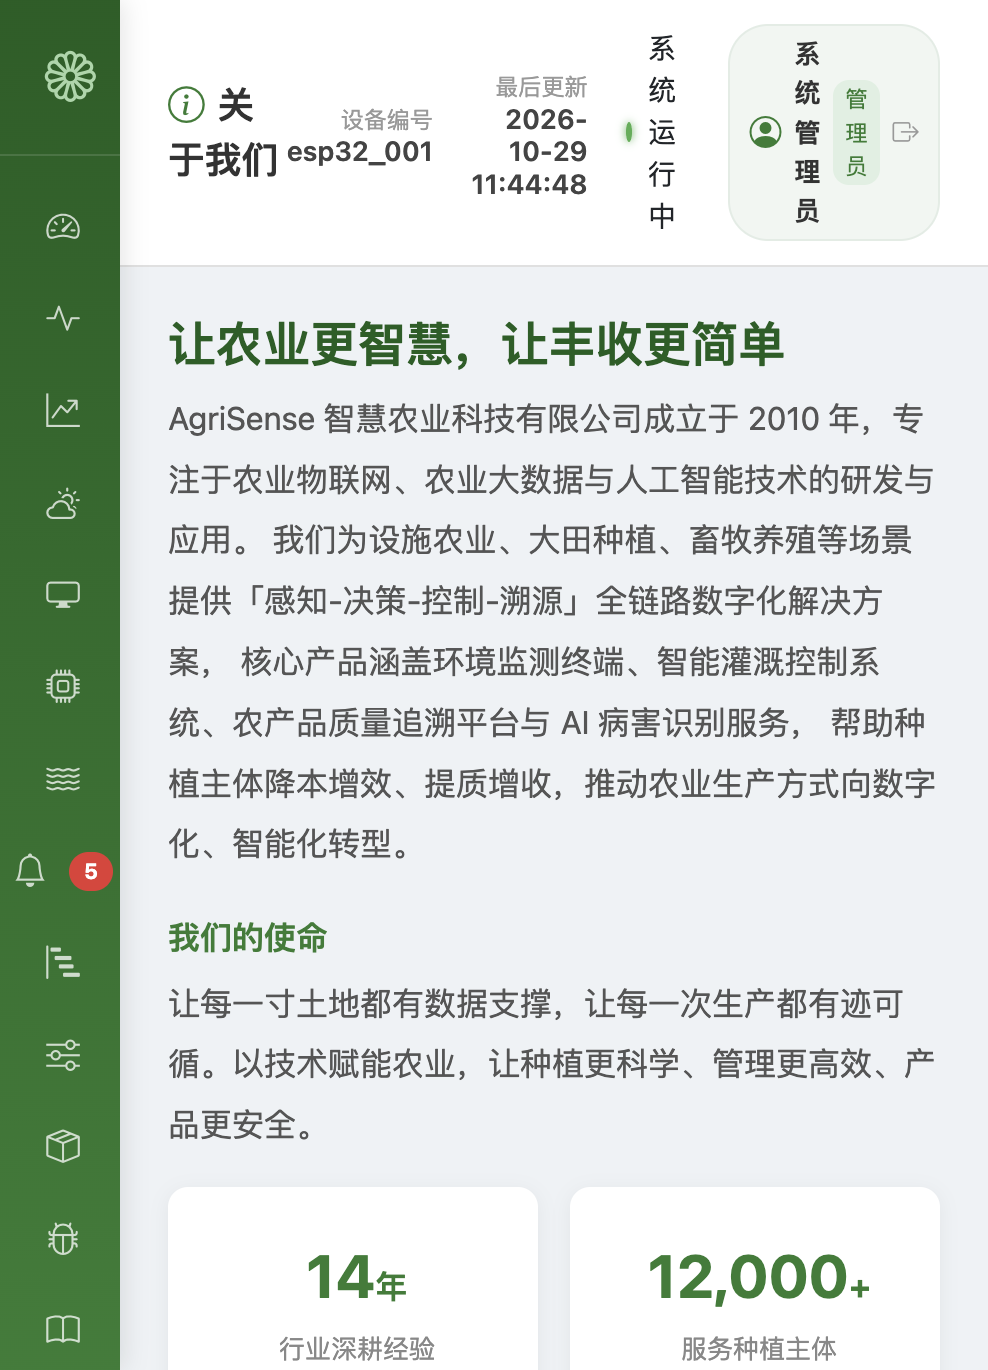
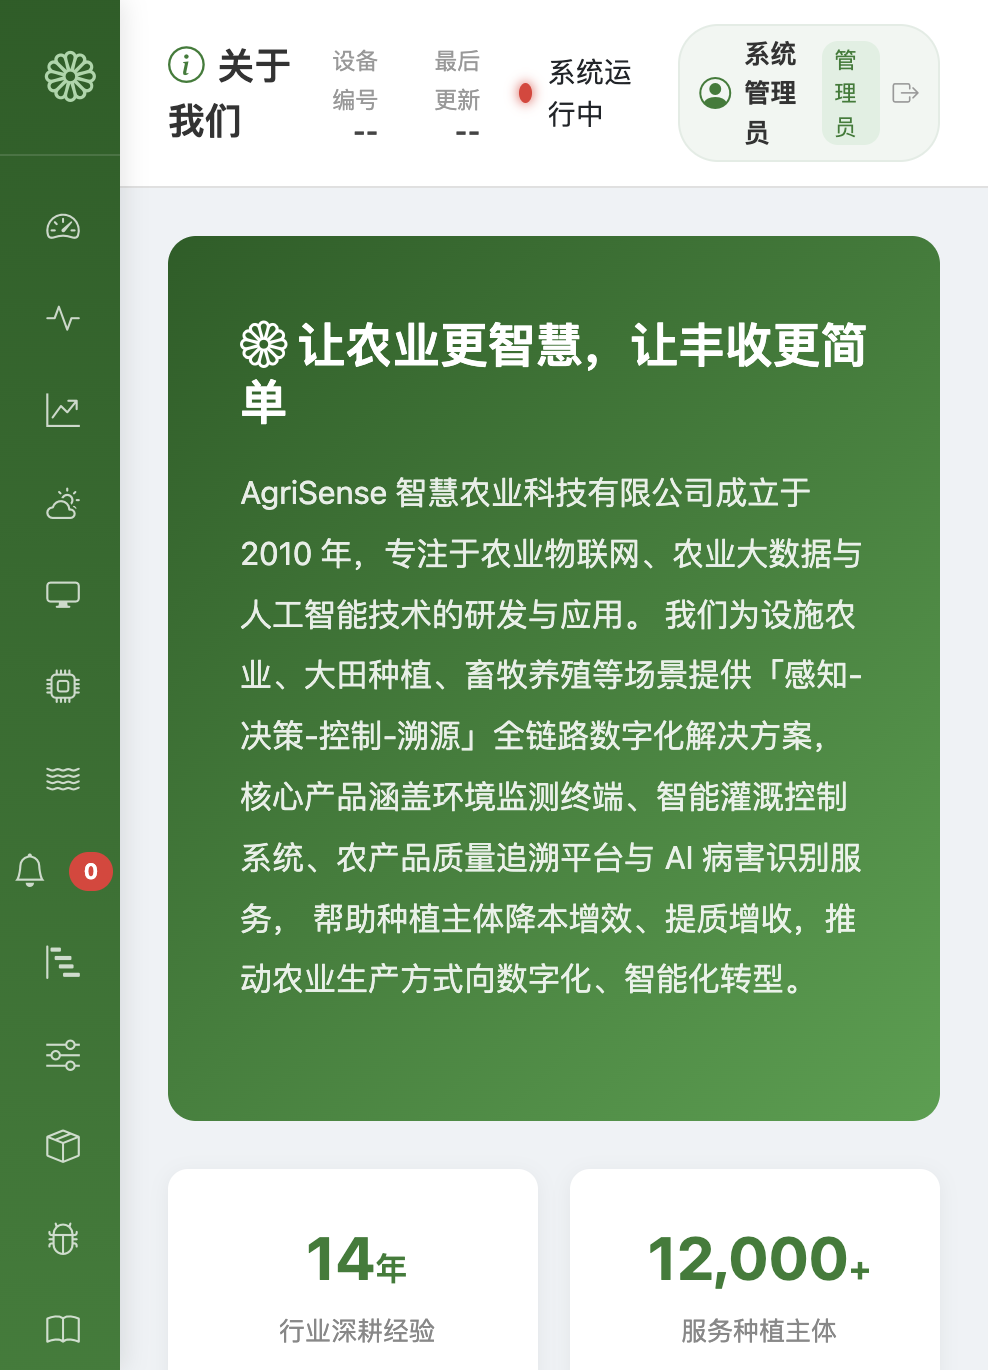
fix: 关于页面动态读取逻辑完善
- #site-content 范围从仅 hero 一段扩大为 hero + 核心数据 + 发展历程 + 团队 + 荣誉 整段
  （联系方式卡保持静态：含跳转链接，不由 CMS 驱动）
- seed_mock_data.py 的 about content 重写为完整 HTML（从 459B → 3339B），
  复用 about.html 原有 CSS class（about-hero / num-card / milestone / team-card / honor-item），
  确保 CMS 动态替换后视觉效果与静态兜底 100% 一致
- 更新 about.png 截图（动态完整页渲染结果）

diff --git a/agri-sense/frontend/about.html b/agri-sense/frontend/about.html
@@ -31,8 +31,9 @@
 <body>
   <div id="app-root">
 
-    <!-- 公司简介 -->
+    <!-- 公司简介 + 核心展示区（动态可编辑） -->
     <div id="site-content">
+
     <div class="about-hero mb-4">
       <h3><i class="bi bi-flower1"></i> 让农业更智慧，让丰收更简单</h3>
       <p class="mt-3">
@@ -41,7 +42,6 @@
         核心产品涵盖环境监测终端、智能灌溉控制系统、农产品质量追溯平台与 AI 病害识别服务，
         帮助种植主体降本增效、提质增收，推动农业生产方式向数字化、智能化转型。
       </p>
-    </div>
     </div>
 
     <!-- 核心数据 -->
@@ -91,7 +91,9 @@
       </div>
     </div>
 
-    <!-- 联系方式 -->
+    </div>
+
+    <!-- 联系方式（保持静态：含跳转链接，不由 CMS 驱动） -->
     <div class="sensor-card">
       <h6 class="mb-3"><i class="bi bi-geo-alt"></i> 联系我们</h6>
       <div class="row g-3 text-center">

diff --git a/agri-sense/backend/seed_mock_data.py b/agri-sense/backend/seed_mock_data.py
@@ -226,15 +226,64 @@ def seed_site_contents():
     """播种站点默认内容（存在则覆盖为默认，便于 CMS 改前有基准）。"""
     defaults = [
         ("about", "关于我们",
-         """<h3 style="font-weight:700;color:#1b5e20;">让农业更智慧，让丰收更简单</h3>
-<p style="line-height:1.9;color:#555;">
-AgriSense 智慧农业科技有限公司成立于 2010 年，专注于农业物联网、农业大数据与人工智能技术的研发与应用。
-我们为设施农业、大田种植、畜牧养殖等场景提供「感知-决策-控制-溯源」全链路数字化解决方案，
-核心产品涵盖环境监测终端、智能灌溉控制系统、农产品质量追溯平台与 AI 病害识别服务，
-帮助种植主体降本增效、提质增收，推动农业生产方式向数字化、智能化转型。
-</p>
-<h6 style="font-weight:700;color:#2e7d32;margin-top:22px;">我们的使命</h6>
-<p style="line-height:1.9;color:#555;">让每一寸土地都有数据支撑，让每一次生产都有迹可循。以技术赋能农业，让种植更科学、管理更高效、产品更安全。</p>"""),
+         """
+<div class="about-hero mb-4">
+  <h3><i class="bi bi-flower1"></i> 让农业更智慧，让丰收更简单</h3>
+  <p class="mt-3">
+    AgriSense 智慧农业科技有限公司成立于 2010 年，专注于农业物联网、农业大数据与人工智能技术的研发与应用。
+    我们为设施农业、大田种植、畜牧养殖等场景提供「感知-决策-控制-溯源」全链路数字化解决方案，
+    核心产品涵盖环境监测终端、智能灌溉控制系统、农产品质量追溯平台与 AI 病害识别服务，
+    帮助种植主体降本增效、提质增收，推动农业生产方式向数字化、智能化转型。
+  </p>
+</div>
+
+<!-- 核心数据 -->
+<div class="row g-3 mb-4">
+  <div class="col-6 col-md-3"><div class="sensor-card num-card"><div class="num">14<span class="fs-6">年</span></div><div class="lbl">行业深耕经验</div></div></div>
+  <div class="col-6 col-md-3"><div class="sensor-card num-card"><div class="num">12,000<span class="fs-6">+</span></div><div class="lbl">服务种植主体</div></div></div>
+  <div class="col-6 col-md-3"><div class="sensor-card num-card"><div class="num">86<span class="fs-6">万亩</span></div><div class="lbl">累计覆盖种植面积</div></div></div>
+  <div class="col-6 col-md-3"><div class="sensor-card num-card"><div class="num">35,000<span class="fs-6">+</span></div><div class="lbl">在线监测设备</div></div></div>
+</div>
+
+<div class="row g-3 mb-4">
+  <!-- 发展历程 -->
+  <div class="col-lg-6">
+    <div class="sensor-card h-100">
+      <h6 class="mb-3"><i class="bi bi-signpost-split"></i> 发展历程</h6>
+      <div class="milestone"><div class="year">2010</div><div class="txt">公司成立，推出第一代温室环境监测终端，进入设施农业物联网领域</div></div>
+      <div class="milestone"><div class="year">2012</div><div class="txt">智能灌溉控制系统上线，实现「监测+控制」闭环，服务面积突破 10 万亩</div></div>
+      <div class="milestone"><div class="year">2014</div><div class="txt">发布农业大数据平台，接入设备破万台，获高新技术企业认定</div></div>
+      <div class="milestone"><div class="year">2016</div><div class="txt">农产品溯源系统上线，率先实现「一批次一码」全程可追溯</div></div>
+      <div class="milestone"><div class="year">2018</div><div class="txt">AI 病害图像识别服务发布，识别准确率达行业领先水平</div></div>
+      <div class="milestone"><div class="year">2010 至今</div><div class="txt">构建「感知-决策-控制-溯源」全链路产品矩阵，持续服务农业数字化转型</div></div>
+    </div>
+  </div>
+
+  <!-- 核心团队 + 荣誉 -->
+  <div class="col-lg-6">
+    <div class="sensor-card mb-3">
+      <h6 class="mb-3"><i class="bi bi-people"></i> 核心团队</h6>
+      <div class="row g-3">
+        <div class="col-4 team-card"><div class="avatar"><i class="bi bi-person"></i></div><div class="fw-bold small">陈立农</div><div class="text-muted" style="font-size:11px">创始人 / CEO</div></div>
+        <div class="col-4 team-card"><div class="avatar"><i class="bi bi-person"></i></div><div class="fw-bold small">王耘</div><div class="text-muted" style="font-size:11px">首席技术官</div></div>
+        <div class="col-4 team-card"><div class="avatar"><i class="bi bi-person"></i></div><div class="fw-bold small">李穗</div><div class="text-muted" style="font-size:11px">农业科学家</div></div>
+      </div>
+      <p class="text-muted small mt-3 mb-0">
+        团队由农业科学、物联网工程、人工智能领域的专家组成，研发人员占比超过 60%，
+        与多所农业院校建立联合实验室，持续推动产学研成果转化。
+      </p>
+    </div>
+    <div class="sensor-card">
+      <h6 class="mb-2"><i class="bi bi-award"></i> 荣誉资质</h6>
+      <div class="honor-item"><i class="bi bi-trophy"></i> 国家高新技术企业</div>
+      <div class="honor-item"><i class="bi bi-trophy"></i> 农业物联网行业创新示范企业</div>
+      <div class="honor-item"><i class="bi bi-trophy"></i> 智慧农业解决方案优秀服务商</div>
+      <div class="honor-item"><i class="bi bi-trophy"></i> ISO9001 质量管理体系认证</div>
+      <div class="honor-item"><i class="bi bi-trophy"></i> 30+ 项发明专利与软件著作权</div>
+    </div>
+  </div>
+</div>
+"""),
         ("faq", "问题解答",
          """<h6 style="color:#2e7d32;font-weight:700;margin-top:20px;"><i class="bi bi-box-seam"></i> 产品与功能</h6>
 <p style="line-height:1.8;color:#555;"><strong>Q1：AgriSense 系统包含哪些核心功能？</strong><br>
